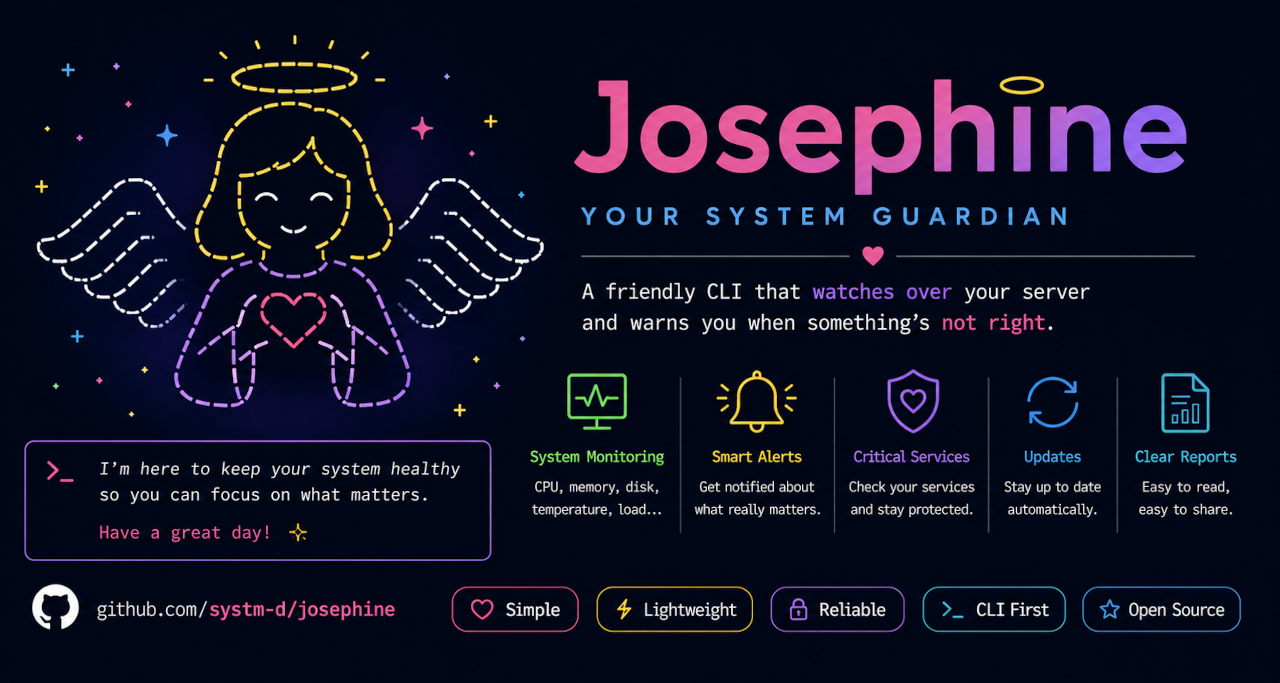
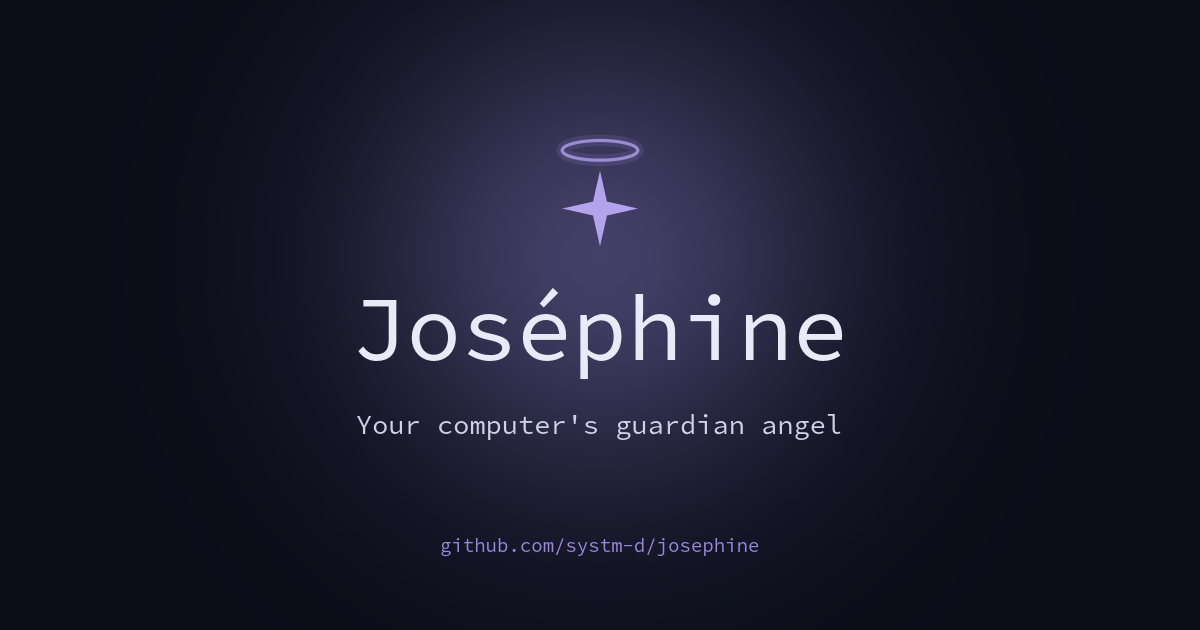
fix(resources): make the social previews render correctly, and regenerate them
af901ab kept make-social-preview.sh but could not run it — no ImageMagick, no
Source Code Pro in that environment — so it went in with its output unverified
and the previews restored from history instead. Run here, it had three faults,
all visible in the render:

  * The ✦ landed in a white box. ImageMagick rasterises an SVG over opaque
    white unless `-background none` precedes it, and `set -e` cannot see it:
    the file is written, just wrong.
  * The glow layer was built on `xc:$night` and Screen-composited, so it lifted
    the entire canvas rather than only the glow. The night ground washed out to
    a flat violet haze.
  * Against that haze the formula — the whole point of the revert — was the
    least legible thing on the card.

Fixed by building the glow on black so Screen only adds light where the glow
is, damping it, and lifting the formula to a tone that reads. The mark now
carries the halo from the site's guardian() macro over the ✦, which is what
makes it Joséphine's rather than a generic four-point star, and says "ange
gardien" in the one place the words cannot follow: a picture with no caption.

The restored previews were the pre-minimal design — a busy feature grid whose
own tagline ("YOUR SYSTEM GUARDIAN" / "VOTRE ANGE GARDIEN SYSTÈME") is not the
formula this revert restores. The generated pair carries the right words in the
site's own visual language, and at 109K against 783K/731K sits far below
GitHub's 1MB cap.
[…]

diff --git a/CHANGELOG.md b/CHANGELOG.md
@@ -31,9 +31,11 @@ and this project adheres to [Semantic Versioning](https://semver.org/spec/v2.0.0
   a single centred column again, and the page ships nine fewer image files.
 - **The example banner is back.** `resources/banner.txt` was dropped a moment
   ago as "the last angel in the repository". It is the right identity again.
-- **The social previews are recomposed around the ✦** rather than a portrait,
-  and `resources/make-social-preview.sh` no longer needs an illustration to
-  run.
+- **The social previews are recomposed around the haloed ✦** rather than a
+  portrait: night ground, a restrained violet glow, the mark under its halo,
+  the wordmark and the formula. `resources/make-social-preview.sh` no longer
+  needs an illustration to run, and regenerating twice gives byte-identical
+  files — the previews are reproducible from the script alone.
 
 ## [0.12.0] - 2026-07-27
 
